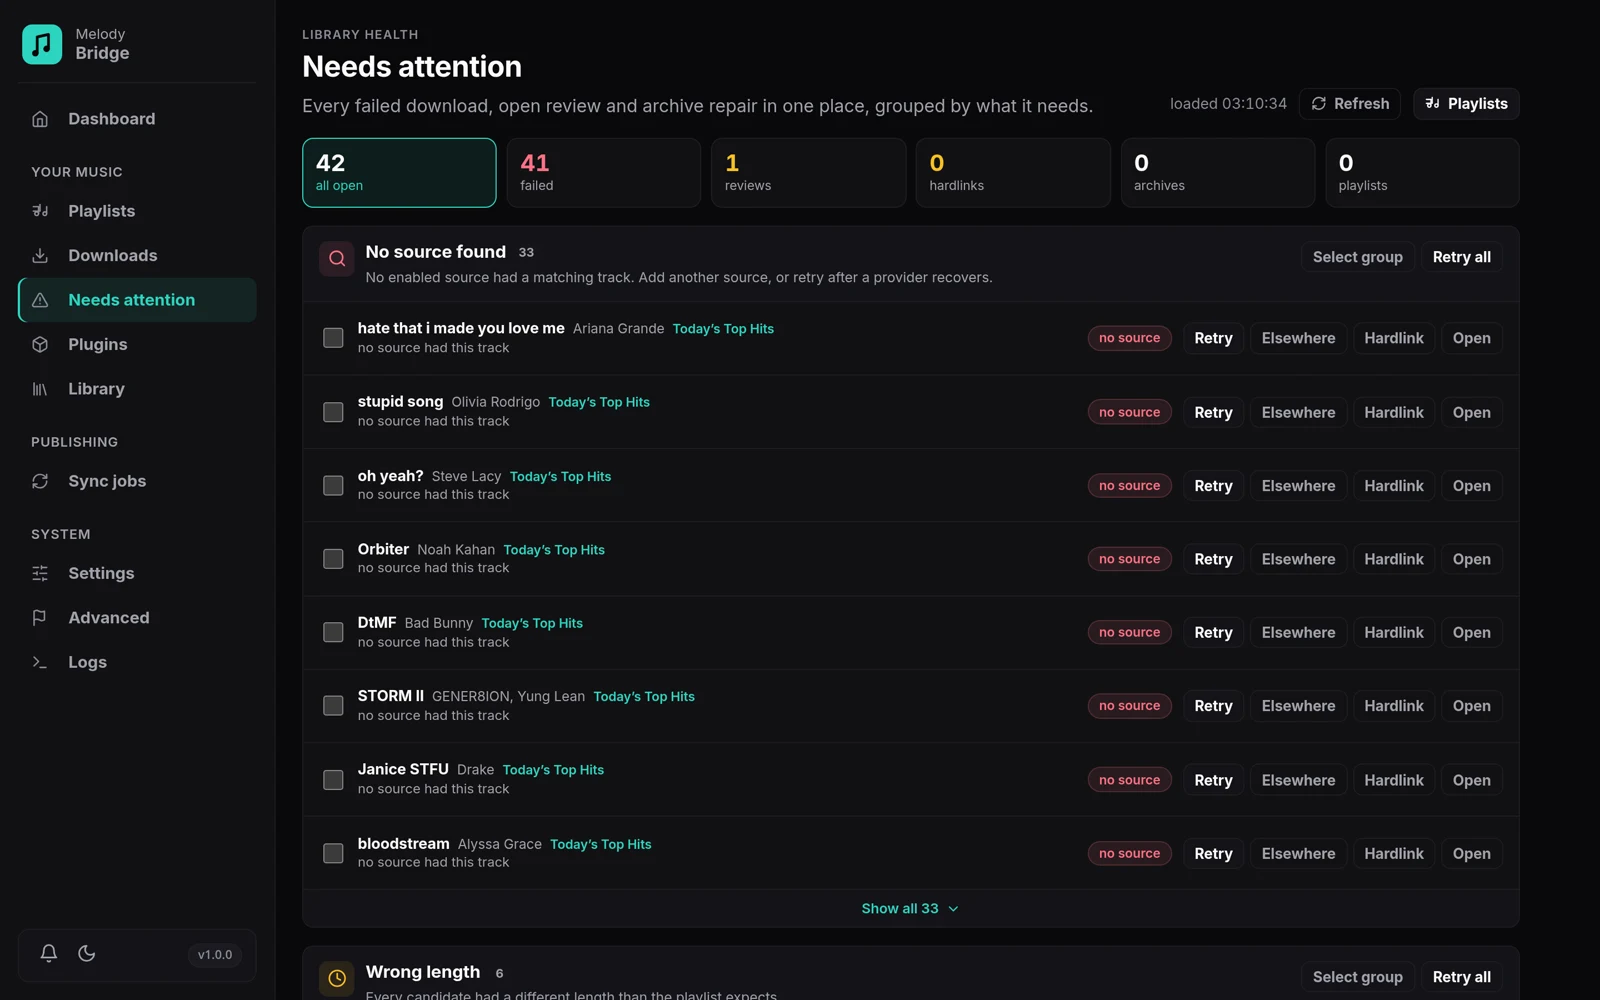
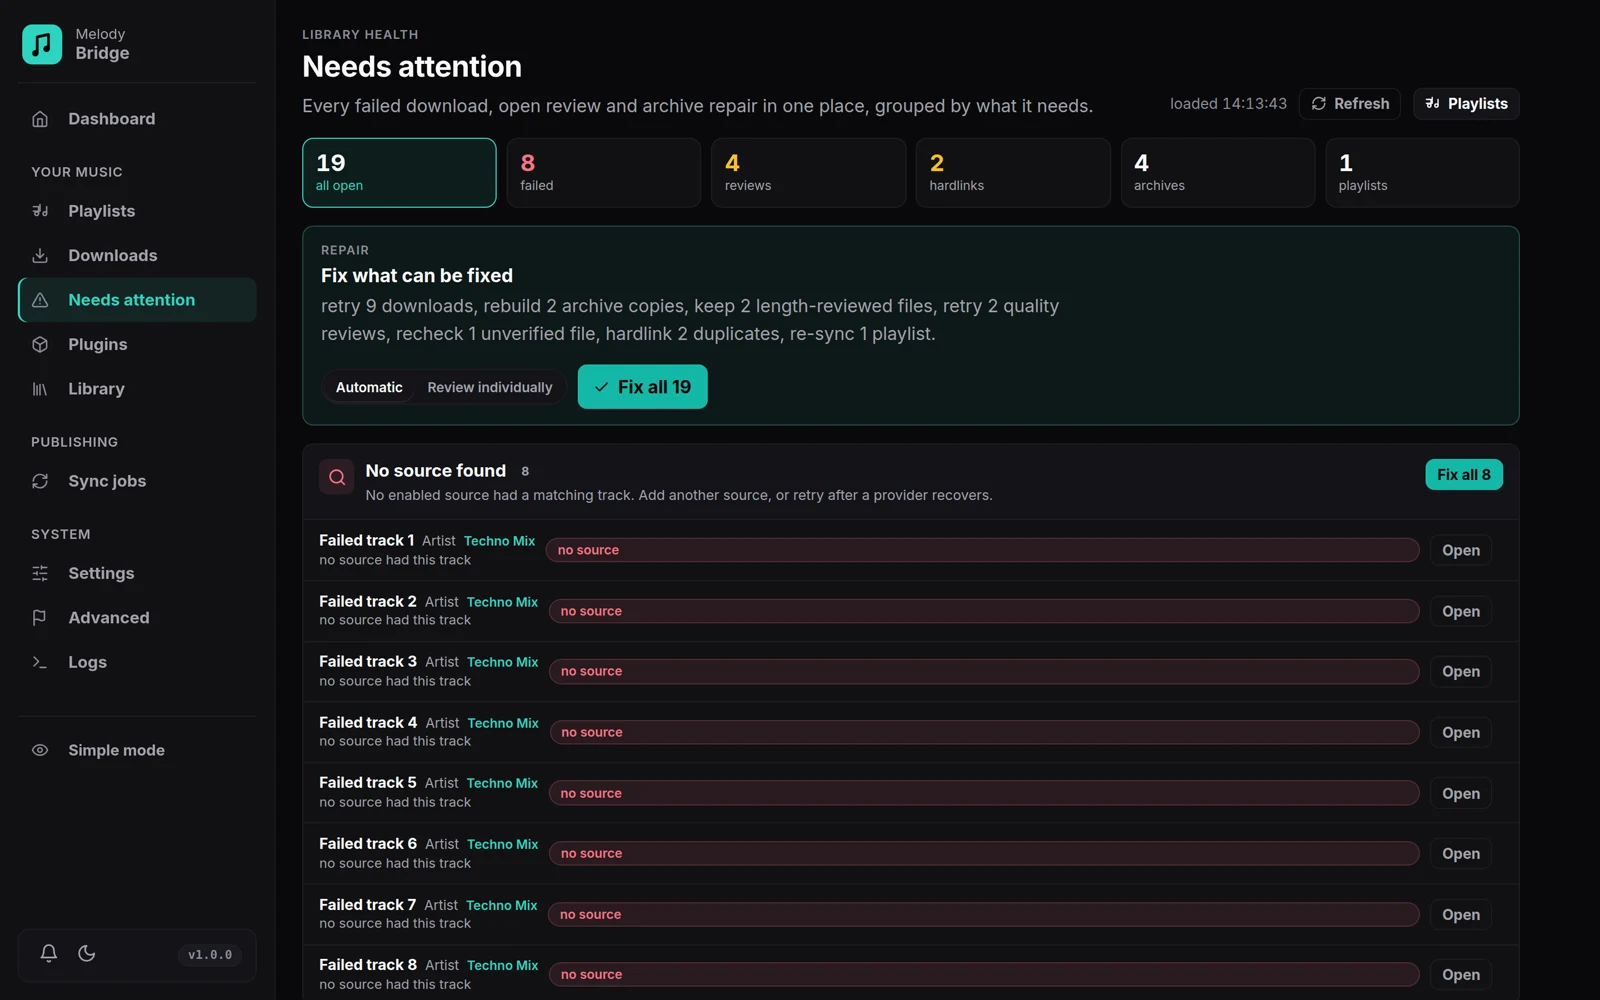
docs: cover the new interface modes and attention repairs
Update the reference, concepts, quickstart and screenshots for the one-click repairs, archive profiles and simpler navigation.

diff --git a/docs/reference.md b/docs/reference.md
@@ -52,7 +52,7 @@ M3U folder or a media server target to several jobs at once.
 
 ### Default paths
 
-<img src="/screens/settings-paths.webp" alt="Default paths tab with the music, playlist and archive folders, folder buttons and archive profiles" width="800">
+<img src="/screens/settings-paths.webp" alt="Default paths tab with the music path, playlist folder and the default archive profile" width="800">
 
 - **Music path** (`/music` in the Docker image): the root for downloads. With
   **Sort downloads into a folder per playlist** on, the default, each playlist
@@ -64,27 +64,32 @@ M3U folder or a media server target to several jobs at once.
   A new sync job starts with `<folder>/<job name>.m3u8`; type a different path
   in the quick or advanced editor when a job should land elsewhere. A rule
   profile can set the folder and file name for every linked job.
-- **Archive path** and **Archive format**: the default archive copy. Leave the
-  path empty for no default archive. Per-playlist values override the default,
-  and the playlist page shows what the app default currently does. The format
-  picker offers Auto, Opus, FLAC, MP3 and AAC, plus Custom for another container
-  ffmpeg can write (for example ogg, wav or m4a). Add a bitrate after a colon
-  for lossy presets (`mp3:160`, `opus:192`) or a codec (`m4a:alac`). A format
-  ffmpeg cannot write leaves a warning on the track. Each playlist gets its own
-  folder under the archive path while the sort toggle is on. Saving a new
-  archive path moves the existing default copies along with it.
+- **Default archive**: the first archive profile, marked **default**, edited
+  from its own row. Leave the path empty for no default archive. Per-playlist
+  values override the default, and the playlist page shows what the app default
+  currently does. The format picker offers Auto, Opus, FLAC, MP3 and AAC, plus
+  Custom for another container ffmpeg can write (for example ogg, wav or m4a).
+  Add a bitrate after a colon for lossy presets (`mp3:160`, `opus:192`) or a
+  codec (`m4a:alac`). A format ffmpeg cannot write leaves a warning on the
+  track. Each playlist gets its own folder under the archive path while the
+  sort toggle is on. Saving a new default path moves the existing default
+  copies along with it.
 
-<img src="/screens/settings-archives.webp" alt="Archive profiles with one extra copy, its folder and format, and a build-missing action" width="800">
+<img src="/screens/settings-archives.webp" alt="Archive profiles with the default row and one extra copy, each with its folder and format" width="800">
 
-- **Archive profiles**: extra archive destinations below the default. Add as
-  many as you need, each with a name, folder, container and bitrate. Every
-  enabled profile gets a copy of every downloaded track, so one library can
-  keep an Opus 128 copy and an MP3 160 copy next to the default. **Build
-  missing** scans the existing library and creates the copies it does not have
-  yet; a progress bar stays in the section while it runs. Disabling a profile
-  keeps its files on disk. Deleting one removes the profile and its copy rows,
-  not the files. Playlist archive switches turn every copy off for that
-  playlist; per-playlist folder and format overrides apply to the default only.
+- **Extra archive profiles** sit below the default row. Add as many as you
+  need, each with a name, folder, container and bitrate. Every enabled profile
+  gets a copy of every downloaded track, so one library can keep an Opus 128
+  copy and an MP3 160 copy next to the default. The default row has its own
+  editor and only the default supports playlist overrides. Extra profiles have
+  their own enable toggle, **Build missing** button and delete action. **Build
+  missing** scans the existing library and creates the copies that profile
+  does not have yet; a progress bar stays in the section while it runs. The
+  default has no bulk backfill: recreate one copy at a time from the track row
+  or the Needs attention page. Disabling a profile keeps its files on disk.
+  Deleting one removes the profile and its copy rows, not the files. Playlist
+  archive switches turn every copy off for that playlist; per-playlist folder
+  and format overrides apply to the default only.
 
 The path fields have a folder button that opens a server-side picker with
 shortcuts to the music, playlist, archive and scan folders. You can still type a
@@ -172,8 +177,12 @@ stalls a download or a scan.
 
 ### About
 
-App version and **Check for updates**, a button to replay the guided tour, and
-the appearance section. **Theme** offers Light, Dark or Auto: Auto follows your
+App version and **Check for updates**, a button to replay the guided tour, the
+interface mode and the appearance section. **Interface** switches between
+**Simple**, which keeps the sidebar to playlists, downloads, attention, sources
+and settings, and **Advanced**, which also shows the library, sync jobs,
+diagnostics and logs. A first install asks for the mode; the same switch sits at
+the bottom of the sidebar. **Theme** offers Light, Dark or Auto: Auto follows your
 device and switches with it. The accent picker below it colors tabs, buttons and
 highlights, the guided tour included. Both are stored in this browser only.
 
@@ -359,31 +368,52 @@ including `archive: <name>` chips for archive copies.
 
 ## The Needs attention page
 
-<img src="/screens/attention.webp" alt="Needs attention page grouped by error kind with retry and hardlink actions" width="800">
+<img src="/screens/attention.webp" alt="Needs attention page with the automatic repair summary and grouped problems" width="800">
 
 **Needs attention** in the sidebar collects every track and playlist that still
 wants a decision, grouped by the kind of problem rather than by playlist. The
-metric row at the top filters the page: **failed**, **reviews**, **hardlinks**,
-**archives** and **playlists**. A group shows its own **Select group**,
-**Retry all** or **Find hardlinks** action. A group with more than eight rows
-shows the first eight and a **Show all** button.
+metric row at the top jumps to a group and marks it; the other groups stay on
+the page when you keep scrolling. A group with more than eight rows shows the
+first eight and a **Show all** button.
 
-Each row carries the track, artist, playlist link, the original reason and the
-actions that make sense for it:
+The page opens in **Automatic** mode. The **Fix what can be fixed** card says
+what the fixer will do, for example *retry 9 downloads, keep 2 length-reviewed
+files, retry 2 quality reviews, recheck 1 unverified file, hardlink 2
+duplicates, rebuild 2 archive copies and re-sync 1 playlist*. **Fix all**
+applies the matching repair to every group. Each group also has its own
+**Fix all** button. A progress bar and a **Stop** button stay visible while the
+work runs, and the page keeps responding.
+
+The mapping is deliberate: failed downloads retry through the normal waterfall,
+length reviews keep the playable file, quality reviews fetch a new copy,
+duplicates hardlink the existing copy, archive warnings rebuild the archive
+copy, missing files retry the download, unverified files re-run the audio
+check, and playlist syncs refresh the source.
+
+Choose **Review individually** to show the old per-row controls: checkboxes,
+the bulk action bar, and the action buttons for one track or one group. The
+choice is not destructive; switching back to Automatic simply hides the
+individual controls.
+
+Each row carries the track, artist, playlist link, the original reason and, in
+individual mode, the actions that make sense for it:
 
 | Group | Actions |
 |---|---|
 | No source, wrong format, wrong length, not audio, corrupt, login, timeout, cancelled, metadata, other failures | **Retry**, **Elsewhere** (skips the provider that failed last), **Hardlink** (uses a file another playlist already has), **Open** |
 | Hardlink decisions | **Hardlink existing**, **Download new**, **Open** |
 | Length and quality reviews | **Keep file**, **Retry download**, **Open** |
-| Archive copies, missing files, unverified files | **Recreate**, **Open** |
+| Archive copies | **Recreate**, **Open** |
+| Missing files | **Retry**, **Elsewhere**, **Hardlink**, **Open** |
+| Unverified files | **Recheck**, **Open** |
 | Playlist syncs | **Re-sync**, **Open** |
 
-Tick several rows to get one bulk bar with **Retry downloads**, **Retry
-elsewhere**, **Find hardlinks** and **Recreate archives**. The page reports what
-changed and what still needs attention. It refreshes itself when the store
-changes, so a run started elsewhere appears without a manual reload. The
-dashboard's attention band links straight into the matching filter.
+Tick several rows in individual mode to get one bulk bar with **Retry
+downloads**, **Retry elsewhere**, **Find hardlinks**, **Recheck files** and
+**Recreate archives**, depending on the kinds you selected.
+The page reports what changed and what still needs attention. It refreshes itself
+when the store changes, so a run started elsewhere appears without a manual
+reload. The dashboard's attention band links straight into the matching group.
 
 ## The Downloads page
 
@@ -436,22 +466,23 @@ own stream, then tags and verifies the file.
 
 ## The Plugins page
 
-<img src="/screens/plugins.webp" alt="Plugins page with the search routing map, source order strip and grouped setup cards" width="800">
+<img src="/screens/plugins.webp" alt="Plugins page with grouped setup cards and the optional source order collapsed" width="800">
 
 Providers search for your tracks and plugins download them. The page has two
 jobs: set a source up, and decide which source is tried first.
 
-The **Try order** card is the editable list. Use the arrows to move an enabled
-source up or down. The order here is the whole story for the **No filter**
-quality. When a playlist asks for a specific quality, MelodyBridge first picks
-the plugins that can really deliver it (their declared capabilities decide) and
-this order breaks ties between plugins of the same kind. Pick a preset in
-**Preview quality** to see that capability order and which sources it skips;
-**No filter** keeps the preview out of the way because it is the same as the
-list above.
+The **Source order and quality** card is collapsed by default. Open it only
+when you want to change the order: use the arrows to move an enabled source up
+or down. The order here is the whole story for the **No filter** quality. When
+a playlist asks for a specific quality, MelodyBridge first picks the plugins
+that can really deliver it (their declared capabilities decide) and this order
+breaks ties between plugins of the same kind. Pick a preset in **Preview
+quality** to see that capability order and which sources it skips; **No
+filter** keeps the preview out of the way because it is the same as the list
+above. The yt-dlp version and update action live in the same section.
 
-Below the order, the setup cards are split into **Your subscriptions** and
-**Free and community sources**. Qobuz, Deezer and Tidal each get an account card
+The setup cards below are split into **Your subscriptions** and **Free and
+community sources**. Qobuz, Deezer and Tidal each get an account card
 with **Account and settings**. Everything else needs no subscription; a
 companion tool or container (yt-dlp, slskd, FlareSolverr for Lucida) is named on
 the card. The search box and the **All**, **Accounts**, **Free** and

diff --git a/docs/concepts.md b/docs/concepts.md
@@ -5,6 +5,17 @@ the tracks, and it publishes playlists to your players. This page explains what
 happens under the hood, because the knobs make more sense once you know the
 moving parts.
 
+## Simple and advanced mode
+
+A first install asks how you want to use the app. **Simple** keeps the sidebar
+to the everyday path: playlists, downloads, attention, sources and settings. The
+setup checklist has two steps and the publishing tools stay out of the way.
+**Advanced** shows the library, sync jobs, diagnostics and every setting.
+
+The choice is a starting point, not a lock. Switch any time from the mode button
+at the bottom of the sidebar or from Settings, About. Direct links to a hidden
+page still work, so a bookmark or an existing link never breaks.
+
 ## From link to library
 
 The short version of the pipeline:
@@ -190,7 +201,7 @@ matching cannot be perfect on sources that carry no ISRC and no trustworthy
 artist name; the picker is the honest way out of that. The same picker opens
 from **Download a song**, where there is no existing row to replace.
 
-<img src="/screens/plugins.webp" alt="Plugins page with the search routing map, source order strip and grouped setup cards" width="800">
+<img src="/screens/plugins.webp" alt="Plugins page with grouped setup cards and the optional source order collapsed" width="800">
 
 ### Cover art and lyrics
 
@@ -431,18 +442,21 @@ has a compatible copy.
 The first copy is the **default archive** you set under **Settings, Default
 paths** and can override per playlist. Below it, **Archive profiles** add more
 destinations. Each profile has a name, folder, container and bitrate, and every
-enabled profile gets a copy of every downloaded track. The main file is still
-fetched once; each archive is a local ffmpeg conversion, so three copies do not
-mean three downloads. A playlist's archive switch turns all copies off for that
-playlist, and its folder and format overrides apply to the default archive only.
+enabled profile gets a copy of every downloaded track. The default is edited in
+its own row; the extra profiles also have an enable toggle, a **Build missing**
+button and a delete action. The main file is still fetched once; each archive is
+a local ffmpeg conversion, so three copies do not mean three downloads. A
+playlist's archive switch turns all copies off for that playlist, and its folder
+and format overrides apply to the default archive only.
 
 Archive folders are never mistaken for a track's main file: a library scan skips
 every configured archive root, and the dedup linker ignores files that live in
 one. Downloading a track again replaces the files the row points at. A format
 change can leave the previous copy under its old name, and removing a playlist
 or track with the keep-files option leaves the copies on disk; neither is
-deleted automatically. **Build missing** fills the copies that a newly added
-profile did not have yet, one track at a time.
+deleted automatically. **Build missing** fills the extra-profile copies that a
+newly added profile did not have yet, one track at a time. The default copy is
+rebuilt per track from its row action.
 
 | Format | Result |
 |---|---|
@@ -474,9 +488,15 @@ unverified file. Classification reads the stored status, error and warning
 texts; a normal download and an informational warning such as a quality hint are
 not attention.
 
-The page is a queue, not a log. Retrying a group runs the same operation as the
-row buttons, one track at a time, and finishes with a summary instead of stopping
-at the first failure. Hardlink actions only look for a file that is already in
-the library, so they cost no network download. Archive actions rebuild the
-default copy and every enabled profile. A fixed plugin login or a resolved
-review disappears from the queue on the next refresh.
+The page is a queue, not a log. It opens in **Automatic** mode: the repair card
+summarizes the per-group actions, **Fix all** applies them in one run, and a
+progress bar with **Stop** keeps the page responsive. The mapping is deliberately
+different per group: retry for failed downloads and missing files, keep for
+length reviews, retry for quality reviews, hardlink for duplicates, rebuild for
+archive problems, re-run the audio check for unverified files and a re-sync for
+playlists. **Review individually** exposes the per-row and per-group
+actions. Retrying a group runs one track at a time and finishes with a summary
+instead of stopping at the first failure. Hardlink actions only look for a file
+that is already in the library, so they cost no network download. Archive actions
+rebuild the default copy and every enabled profile. A fixed plugin login or a
+resolved review disappears from the queue on the next refresh.

diff --git a/docs/quickstart.md b/docs/quickstart.md
@@ -32,6 +32,12 @@ MelodyBridge downloads.
 
 ## Your first download
 
+On the first start MelodyBridge asks whether you want the simple or the advanced
+interface. Simple keeps the app to playlists and downloads and gives you a
+two-step checklist. Advanced exposes the library, sync jobs, diagnostics and
+every setting. You can switch at any time from the bottom of the sidebar or from
+Settings, About.
+
 <div class="steps">
 <div class="step" data-step="1">
 <strong>Add a playlist</strong>
